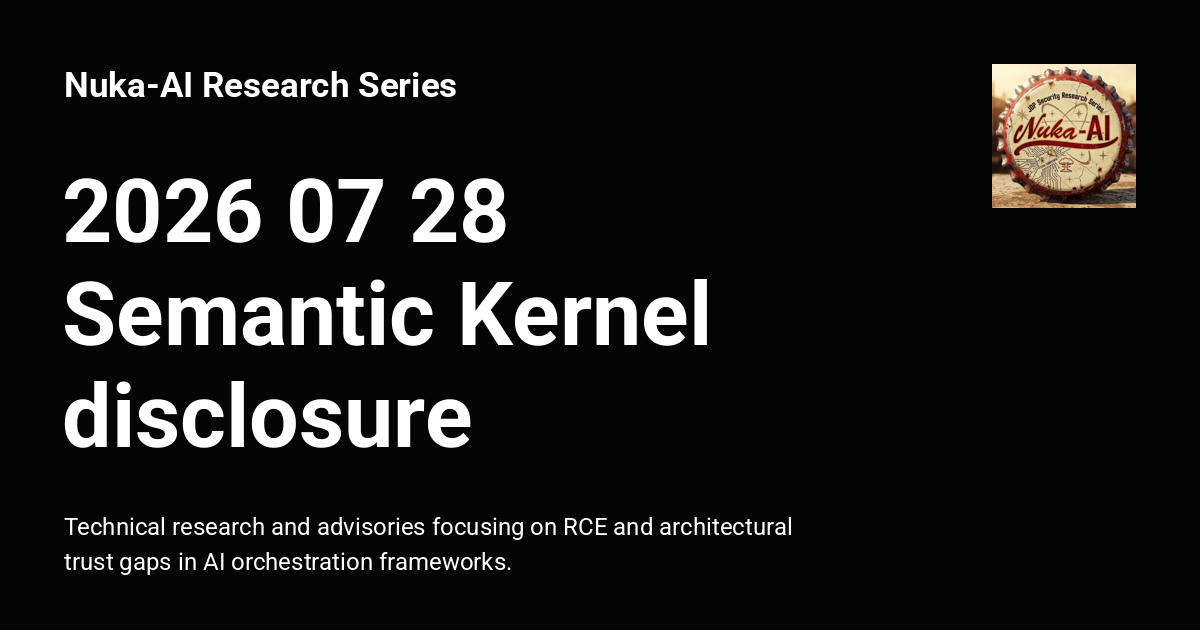
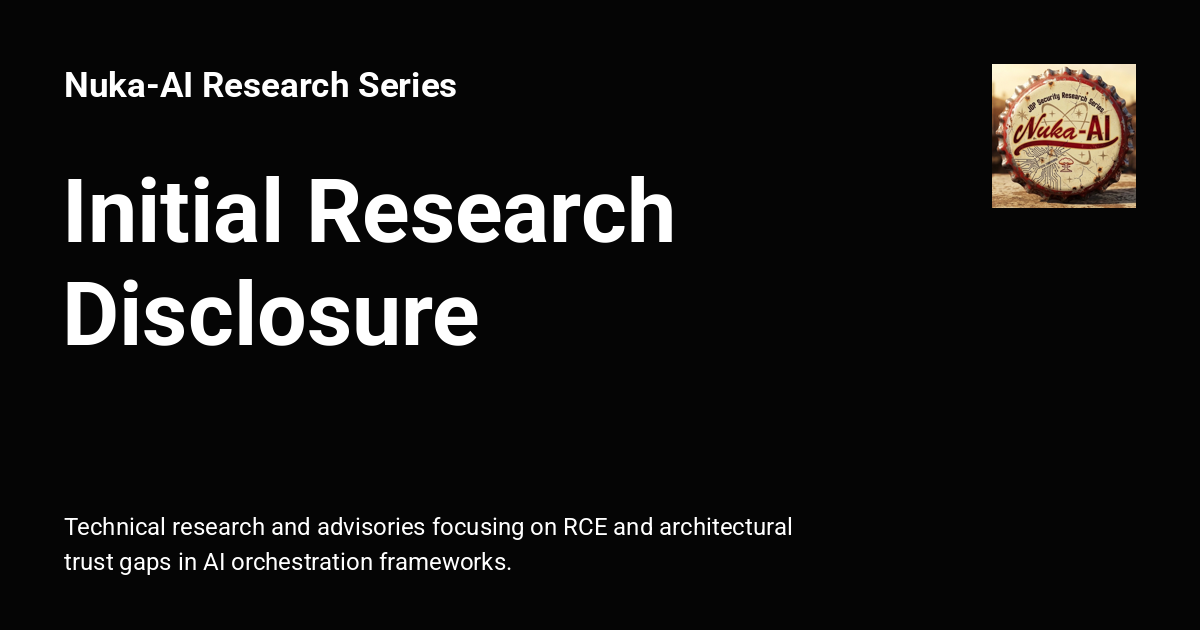
deploy: b1974e631c609055b7e0097fb71e40272c129482

Changed region(s): [[0.0308, 0.4222, 0.6167, 0.573], [0.0308, 0.2714, 0.5858, 0.3921], [0.0308, 0.6032, 0.4008, 0.7238]]

diff --git a/posts/2026-07-28-Semantic-Kernel-disclosure/index.html b/posts/2026-07-28-Semantic-Kernel-disclosure/index.html
@@ -25,7 +25,7 @@
     
     
       
-        <title>2026 07 28 Semantic Kernel disclosure - Nuka-AI Research Series</title>
+        <title>Initial Research Disclosure - Nuka-AI Research Series</title>
       
     
     
@@ -59,7 +59,7 @@
     
   
 <meta property="og:type" content="website">
-<meta property="og:title" content="2026 07 28 Semantic Kernel disclosure - Nuka-AI Research Series">
+<meta property="og:title" content="Initial Research Disclosure - Nuka-AI Research Series">
 <meta property="og:description" content="Technical research and advisories focusing on RCE and architectural trust gaps in AI orchestration frameworks.">
 <meta property="og:image" content="https://nuka-ai.github.io/assets/images/social/posts/2026-07-28-Semantic-Kernel-disclosure.png">
 <meta property="og:image:type" content="image/png">
@@ -67,7 +67,7 @@
 <meta property="og:image:height" content="630">
 <meta property="og:url" content="https://nuka-ai.github.io/posts/2026-07-28-Semantic-Kernel-disclosure/">
 <meta property="twitter:card" content="summary_large_image">
-<meta property="twitter:title" content="2026 07 28 Semantic Kernel disclosure - Nuka-AI Research Series">
+<meta property="twitter:title" content="Initial Research Disclosure - Nuka-AI Research Series">
 <meta property="twitter:description" content="Technical research and advisories focusing on RCE and architectural trust gaps in AI orchestration frameworks.">
 <meta property="twitter:image" content="https://nuka-ai.github.io/assets/images/social/posts/2026-07-28-Semantic-Kernel-disclosure.png">
 <link href="../../assets/stylesheets/glightbox.min.css" rel="stylesheet"><script src="../../assets/javascripts/glightbox.min.js"></script><style id="glightbox-style">
@@ -127,7 +127,7 @@
         <div class="md-header__topic" data-md-component="header-topic">
           <span class="md-ellipsis">
             
-              2026 07 28 Semantic Kernel disclosure
+              Initial Research Disclosure
             
           </span>
         </div>
@@ -452,7 +452,7 @@
 
 
 
-  <h1>2026 07 28 Semantic Kernel disclosure</h1>
+  <h1>Initial Research Disclosure</h1>
 
 
 
@@ -461,6 +461,9 @@
 
 
 
+
+  
+  
 
 
 
